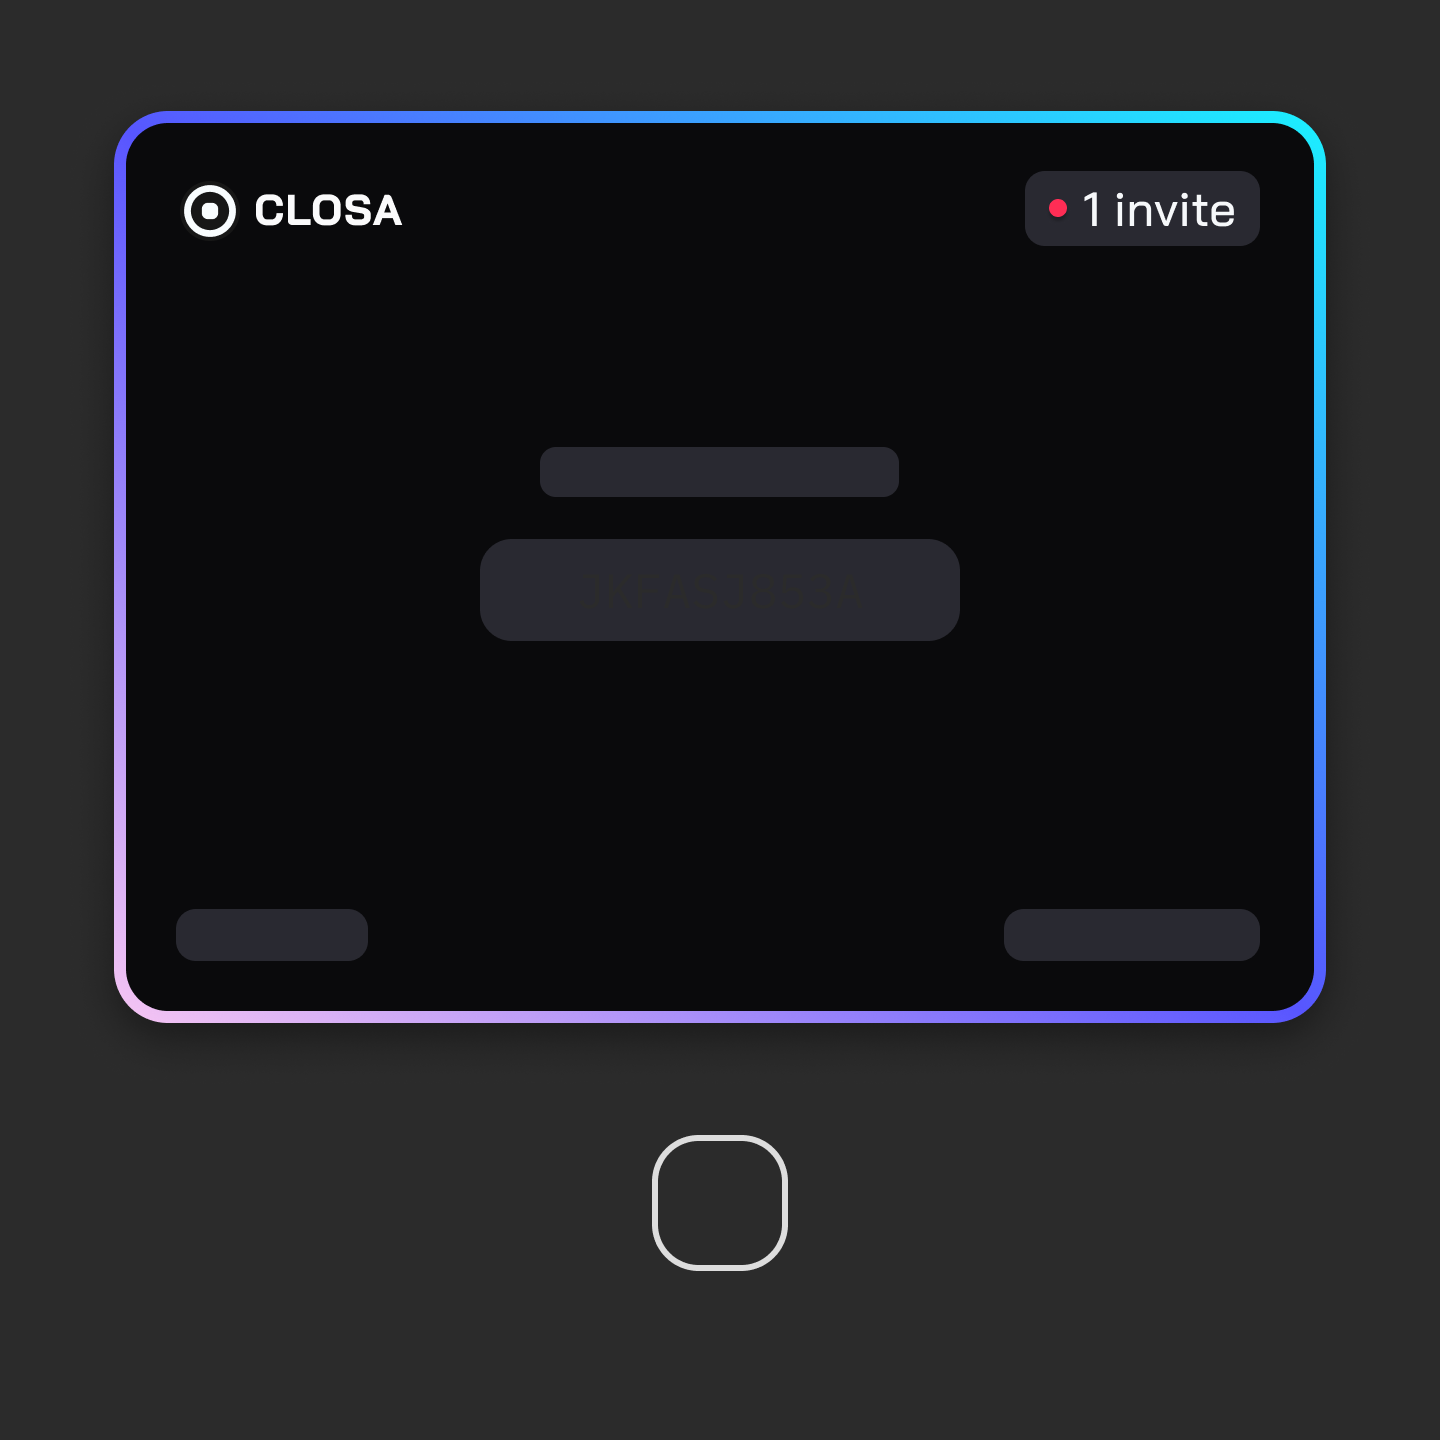
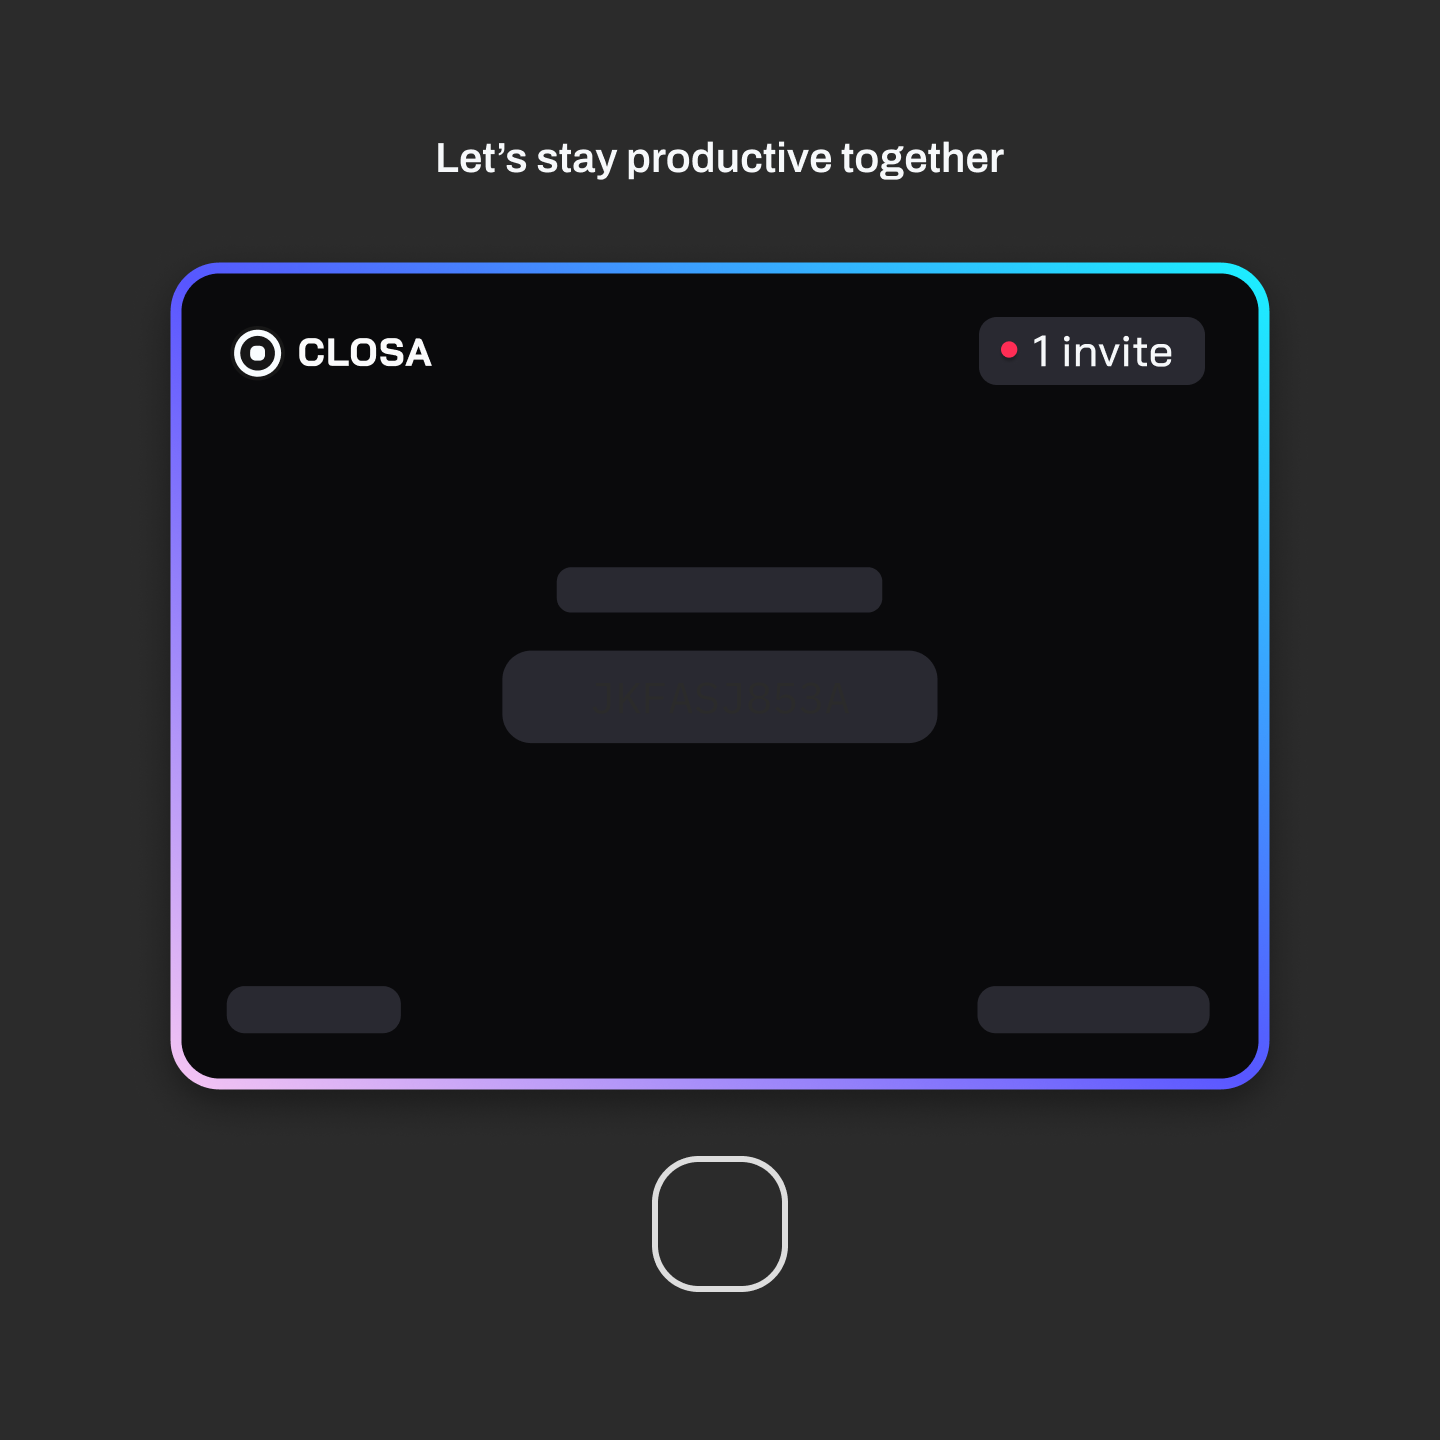
update image  referral ticket dan cover

diff --git a/helpers/GenerateImage.js b/helpers/GenerateImage.js
@@ -156,7 +156,7 @@ class GenerateImage{
         registerFont('./assets/fonts/IBMPlexMono-Regular.ttf',{family:'IBMPlexMono',weight:400})
         registerFont('./assets/fonts/DMMono-Medium.ttf',{family:'DMMono',weight:500})
         
-        const canvas = createCanvas(1213,913)
+        const canvas = createCanvas(1440,1440)
 
         const context = canvas.getContext('2d')
  
@@ -165,7 +165,7 @@ class GenerateImage{
         context.fillStyle = "#FAFAFB"; 
         context.font = "400 48px IBMPlexMono";
         context.textAlign = 'center'
-        context.fillText(referralCode, 607 , 478);
+        context.fillText(referralCode, 721 , 776);
         
         const buffer = canvas.toBuffer('image/png')
         return buffer
@@ -214,8 +214,8 @@ class GenerateImage{
         if(totalReferral > 1){
             const template = await loadImage(`./assets/images/referral_cover_template${isDarkMode ? "":"_white"}.png`)
             context.drawImage(template,0,0)
-            context.font = "500 48px BaiJamjuree";
-            context.fillText(`${totalReferral} invite${totalReferral>1? "s" : ""}`, 1033 , 222.5);
+            context.font = "500 44px BaiJamjuree";
+            context.fillText(`${totalReferral} invite${totalReferral>1? "s" : ""}`, 1005 , 366);
 
         }else{
             const template = await loadImage(`./assets/images/referral_cover_oneInvite${isDarkMode ? "":"_white"}.png`) 
@@ -228,15 +228,15 @@ class GenerateImage{
         context.textAlign = 'center'
         context.font = "600 42px Archivo";
         const username = UserController.getNameFromUserDiscord(user)
-        context.fillText(username, 721 , 1330);
+        context.fillText(username, 719 , 1358);
 
 		const avatarUrl = InfoUser.getAvatar(user)
         const photoUser = await loadImage(avatarUrl)
 
-        const rectWidth = 124.6;
-        const rectHeight = 124;
-        const rectX = 657.6;
-        const rectY = 1140.9;
+        const rectWidth = 135.7;
+        const rectHeight = 135.7;
+        const rectX = 652;
+        const rectY = 1156;
         const cornerRadius = 43;
         
         this.roundRect(context, rectX, rectY, rectWidth, rectHeight, cornerRadius);
